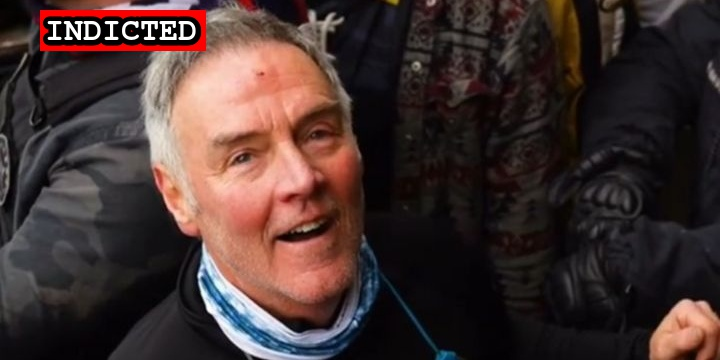
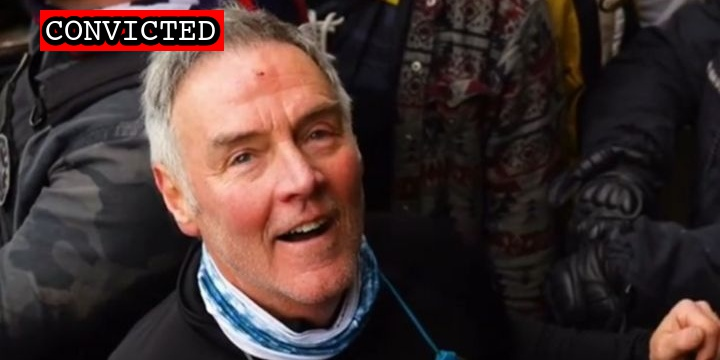
Whitton and Mehaffie convictions

Changed region(s): [[0.0306, 0.0, 0.3361, 0.1528]]

diff --git a/docs/_suspects/david-mehaffie.md b/docs/_suspects/david-mehaffie.md
@@ -4,18 +4,19 @@ lastName: Mehaffie
 hashtag: TunnelCommander
 aka:
 residence: Ohio
-status: Indicted
+status: Convicted
 date: 2021-08-12
 charged: 2021-08-12
 indicted: 2021-08-12
-convicted:
+convicted: 2022-09-13
+acquitted:
 sentenced:
 dismissed:
 deceased:
 plea_hearing:
-sentencing:
 trial_date: 2022-08-29
 trial_type: Bench Trial
+sentencing:
 age:
 occupation:
 affiliations:
@@ -36,6 +37,22 @@ published: true
 caseNumber: 1:21-cr-40
 videos:
 charges:
+  - code: 18 USC § 111(a)(1), 2
+    title: Assaulting, resisting, or impeding certain officers or employees (Aiding and Abetting)
+    url: https://www.law.cornell.edu/uscode/text/18/111
+    felony: true
+  - code: 18 USC § 231(a)(3)
+    title: Obstruction of Law Enforcement During Civil Disorder
+    url: https://www.law.cornell.edu/uscode/text/18/231
+    felony: true
+  - code: 40 USC § 5104(e)(2)(D)
+    title: Disorderly Conduct in a Capitol Building
+    url: https://www.law.cornell.edu/uscode/text/40/5104
+    felony: false
+  - code: 40 USC § 5104(e)(2)(F)
+    title: Act of physical violence on Capitol grounds
+    url: https://www.law.cornell.edu/uscode/text/40/5104
+    felony: false
 sentence:
 ---
 

diff --git a/docs/_suspects/jack-whitton.md b/docs/_suspects/jack-whitton.md
@@ -4,15 +4,18 @@ lastName: Whitton
 hashtag: Scallops
 aka:
 residence: Georgia
-status: Indicted
+status: Convicted
 date: 2021-03-12
 charged: 2021-03-12
 indicted: 2021-03-12
-convicted:
+convicted: 2022-09-13
+acquitted:
 sentenced:
 dismissed:
 deceased:
 plea_hearing: 2022-09-13
+trial_date:
+trial_type:
 sentencing:
 age: 30
 occupation: Fencing Contractor, CrossFit Instructor
@@ -46,6 +49,10 @@ videos:
   - title: Ex. 6 - Defendant Cell Phone Video.mov (0:00:48)
     url: https://propublica-data-j6cases-videos.s3.us-east-1.amazonaws.com/a0993630ce2a013960702cde48001122.mp4
 charges:
+  - code: 18 USC § 111(a)(1) and (b)
+    title: Assaulting, resisting, or impeding certain officers or employees (using a deadly or dangerous weapon)
+    url: https://www.law.cornell.edu/uscode/text/18/111
+    felony: true
 sentence:
 ---
 
